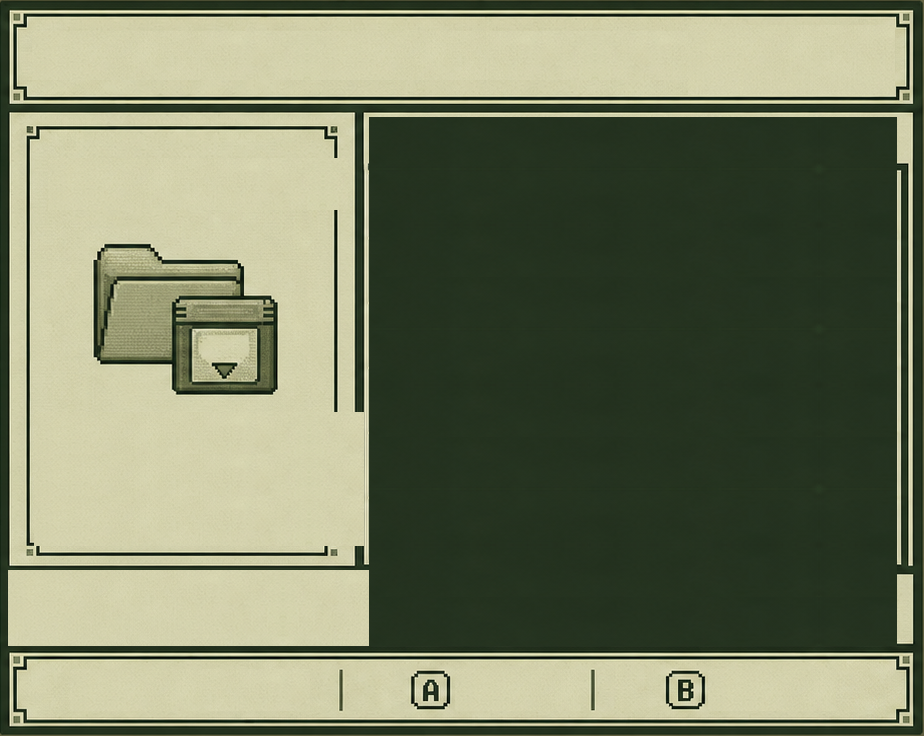
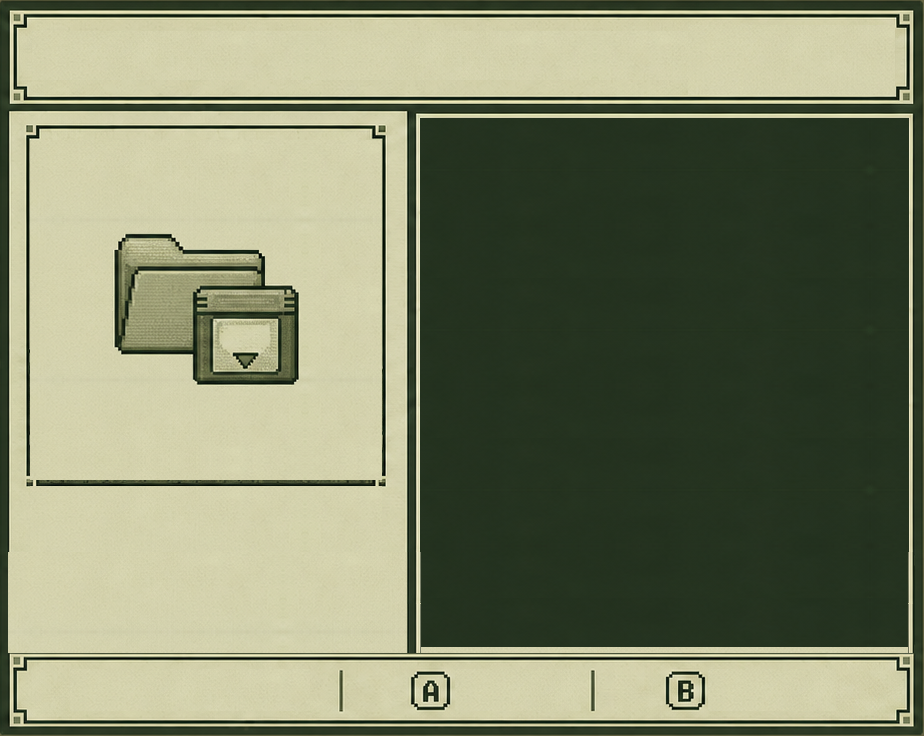
Align Library with Recent Games layout

diff --git a/ui-portable/tools/generate_proposal3_templates.py b/ui-portable/tools/generate_proposal3_templates.py
@@ -32,6 +32,12 @@ def inner(x: int, y: int, width: int, height: int) -> tuple[int, int, int, int]:
     return rect(x + 3, y + 3, width - 6, height - 6)
 
 
+# Library is deliberately based on the Recent Games authority frame. Only this icon is retained
+# from the original, narrower Library mockup.
+LIBRARY_ICON_SOURCE = rect(85, 235, 200, 170)
+LIBRARY_ICON_DESTINATION = (106, 225)
+
+
 # Tight paper-only bands.  Borders, divider rules, icons, and previews sit outside these bounds.
 COMMON_PAPER_TEXT = [
     rect(32, 31, 303, 49),       # COFFEE GB
@@ -95,10 +101,9 @@ ROUTE_PAPER_TEXT = {
         rect(34, 492, 330, 132),
     ],
     "08-library.png": [
-        # Library is icon-only on the left; clear the old opener title and picker copy while
-        # preserving the folder/cartridge illustration between those bands.
-        rect(48, 158, 300, 52), rect(34, 412, 330, 50),
-        rect(34, 454, 330, 50), rect(34, 496, 330, 50),
+        # Library uses the Recent Games authority frame; these are its preview and caption bands.
+        rect(30, 140, 352, 340), rect(30, 486, 352, 66),
+        rect(688, 25, 207, 70),
     ],
     "09-choose-rom.png": [
         rect(45, 114, 330, 56), rect(430, 114, 420, 56), rect(34, 382, 330, 52),
@@ -149,10 +154,6 @@ ROUTE_FLAT_PAPER = {
     "04-touch-controls.png": [rect(744, 25, 151, 61)],
     "05-controller-mapping.png": [rect(744, 25, 151, 61)],
     "10-system.png": [rect(744, 25, 151, 61)],
-    # Library no longer offers duplicate Open ROM buttons in the header or below the rail. The
-    # full header footprint includes its outline; the lower clear stops at the right-side rail so
-    # the folder/cartridge illustration remains untouched above it.
-    "08-library.png": [rect(688, 25, 207, 70), rect(8, 570, 361, 76)],
 }
 
 # Exact half-open inner pause-screen aperture.  It deliberately reaches under the stepped bezel
@@ -189,9 +190,8 @@ ROUTE_WIDGETS = {
     "07-data-media.png": [("dark", inner(*value)) for value in
         [(374, 119, 535, 85), (374, 207, 535, 84), (374, 293, 535, 83),
          (374, 379, 535, 83), (374, 465, 535, 84), (374, 553, 535, 86)]],
-    # The recent-ROM list follows the same seven-item viewport rule as the state and settings
-    # rails. Runtime dividers and chevrons are painted over this clean continuous surface.
-    "08-library.png": [("dark", rect(369, 117, 528, 529))],
+    # Library is the Recent Games viewport with only three populated rows.
+    "08-library.png": [("dark", rect(420, 118, 489, 529))],
     # ZIP candidate selection also scrolls in seven compact rows, while its two actions retain
     # their authored lower-panel footprint.
     "09-choose-rom.png": [("dark", rect(387, 179, 524, 333))] + [("dark", inner(*value)) for
@@ -249,6 +249,79 @@ def paste_surface(image: Image.Image, surface: Image.Image,
             image.paste(surface.crop((0, 0, width, height)), (x, y))
 
 
+def largest_component(mask: np.ndarray) -> np.ndarray:
+    """Keep the connected opener illustration while discarding isolated paper-grain pixels."""
+    height, width = mask.shape
+    visited = np.zeros_like(mask, dtype=bool)
+    largest: list[tuple[int, int]] = []
+    for y in range(height):
+        for x in range(width):
+            if not mask[y, x] or visited[y, x]:
+                continue
+            component: list[tuple[int, int]] = []
+            pending = [(x, y)]
+            visited[y, x] = True
+            while pending:
+                current_x, current_y = pending.pop()
+                component.append((current_x, current_y))
+                for adjacent_y in range(max(0, current_y - 1), min(height, current_y + 2)):
+                    for adjacent_x in range(max(0, current_x - 1),
+                                            min(width, current_x + 2)):
+                        if (mask[adjacent_y, adjacent_x]
+                                and not visited[adjacent_y, adjacent_x]):
+                            visited[adjacent_y, adjacent_x] = True
+                            pending.append((adjacent_x, adjacent_y))
+            if len(component) > len(largest):
+                largest = component
+    result = np.zeros_like(mask, dtype=bool)
+    for x, y in largest:
+        result[y, x] = True
+    return result
+
+
+def fill_mask_holes(mask: np.ndarray) -> np.ndarray:
+    """Fill light paper-colored areas enclosed by the opener's dark pixel-art outline."""
+    height, width = mask.shape
+    outside = np.zeros_like(mask, dtype=bool)
+    pending: list[tuple[int, int]] = []
+    for x in range(width):
+        pending.extend(((x, 0), (x, height - 1)))
+    for y in range(height):
+        pending.extend(((0, y), (width - 1, y)))
+    while pending:
+        x, y = pending.pop()
+        if mask[y, x] or outside[y, x]:
+            continue
+        outside[y, x] = True
+        if x > 0:
+            pending.append((x - 1, y))
+        if x + 1 < width:
+            pending.append((x + 1, y))
+        if y > 0:
+            pending.append((x, y - 1))
+        if y + 1 < height:
+            pending.append((x, y + 1))
+    return mask | ~outside
+
+
+def extract_library_opener(source: Image.Image) -> Image.Image:
+    """Turn the baked Library opener into a transparent sprite without redrawing it."""
+    crop = np.array(source.crop(LIBRARY_ICON_SOURCE).convert("RGB"))
+    border = np.concatenate((crop[:8].reshape(-1, 3), crop[-8:].reshape(-1, 3),
+                             crop[:, :8].reshape(-1, 3), crop[:, -8:].reshape(-1, 3)))
+    paper = np.median(border, axis=0)
+    distance = np.sqrt(np.square(crop.astype(float) - paper).sum(axis=2))
+    mask = fill_mask_holes(largest_component(distance > 35))
+    padded = np.pad(mask, 1)
+    dilated = np.zeros_like(mask, dtype=bool)
+    for offset_y in range(3):
+        for offset_x in range(3):
+            dilated |= padded[offset_y:offset_y + mask.shape[0],
+                              offset_x:offset_x + mask.shape[1]]
+    rgba = np.dstack((crop, np.where(dilated, 255, 0).astype(np.uint8)))
+    return Image.fromarray(rgba, "RGBA")
+
+
 def main() -> None:
     if not RAW.is_dir():
         raise SystemExit(f"Proposal 3 raw reference directory is missing: {RAW}")
@@ -258,16 +331,22 @@ def main() -> None:
         "paper": Image.open(WIDGETS / "paper-widget.png").convert("RGB"),
     }
     paper_pixels = np.array(surfaces["paper"])
+    library_opener = extract_library_opener(
+        Image.open(RAW / "08-library.png").convert("RGB"))
     for source in sorted(RAW.glob("*.png")):
         if source.name not in ROUTE_WIDGETS or source.name not in ROUTE_PAPER_TEXT:
             raise SystemExit(f"No audited template recipe for {source.name}")
-        template = Image.open(source).convert("RGB")
+        # The old Library reference has unique, narrower panel geometry. Start from the Recent
+        # Games reference so every rail, border and footer seam is shared pixel-for-pixel.
+        reference_source = RAW / ("16-recent-games.png"
+                                  if source.name == "08-library.png" else source.name)
+        template = Image.open(reference_source).convert("RGB")
         for surface, bounds in ROUTE_WIDGETS[source.name]:
             paste_surface(template, surfaces[surface], bounds)
         pixels = np.array(template)
         for bounds in COMMON_PAPER_TEXT + ROUTE_PAPER_TEXT[source.name]:
             clear_paper_text(pixels, bounds, paper_pixels)
-        reference = np.array(Image.open(source).convert("RGB"))
+        reference = np.array(Image.open(reference_source).convert("RGB"))
         for left, top, right, bottom in COMMON_PAPER_RESTORE:
             pixels[top:bottom, left:right] = reference[top:bottom, left:right]
         for left, top, right, bottom in ROUTE_PAPER_RESTORE.get(source.name, []):
@@ -277,7 +356,7 @@ def main() -> None:
         if source.name == "00-pause-console.png":
             left, top, right, bottom = PAUSE_PREVIEW_APERTURE
             pixels[top:bottom, left:right] = PAUSE_PREVIEW_MATTE
-        if source.name in ("01-save-states.png", "16-recent-games.png"):
+        if source.name in ("01-save-states.png", "08-library.png", "16-recent-games.png"):
             # Remove all legacy left-side copy while preserving the stepped bezel around the
             # thumbnail aperture.  The runtime fills this aperture with a detached thumbnail.
             clear_paper_text(pixels, rect(30, 140, 352, 340), paper_pixels)
@@ -298,7 +377,10 @@ def main() -> None:
             # Keep the preview well blank until a persisted thumbnail is supplied at runtime.
             left, top, right, bottom = rect(30, 140, 352, 340)
             clear_paper_text(pixels, (left, top, right, bottom), paper_pixels)
-        Image.fromarray(pixels, "RGB").save(OUTPUT / source.name, optimize=True, compress_level=9)
+        rendered = Image.fromarray(pixels, "RGB")
+        if source.name == "08-library.png":
+            rendered.paste(library_opener, LIBRARY_ICON_DESTINATION, library_opener)
+        rendered.save(OUTPUT / source.name, optimize=True, compress_level=9)
     expected = set(ROUTE_WIDGETS)
     actual = {path.name for path in OUTPUT.glob("*.png")}
     if actual != expected:

diff --git a/ui-portable/src/main/java/eu/rekawek/coffeegb/ui/menu/artwork/Proposal3MenuCompositor.java b/ui-portable/src/main/java/eu/rekawek/coffeegb/ui/menu/artwork/Proposal3MenuCompositor.java
@@ -131,7 +131,7 @@ public final class Proposal3MenuCompositor {
             case PAUSE_CONSOLE, SAVE_STATES -> Proposal3GlyphAtlas.Role.SEMIBOLD;
             // Seven archive rows use the compact 36px face so their ink fits the fixed viewport.
             case CHOOSE_ROM -> Proposal3GlyphAtlas.Role.MEDIUM;
-            case CONTROLLER_MAPPING, OPTIONAL_DEVICES, LIBRARY, SYSTEM, DISPLAY, OPTION_PICKER ->
+            case CONTROLLER_MAPPING, OPTIONAL_DEVICES, SYSTEM, DISPLAY, OPTION_PICKER ->
                     Proposal3GlyphAtlas.Role.SMALL;
             case ABOUT -> rowIndex == 0 ? Proposal3GlyphAtlas.Role.SEMIBOLD
                     : Proposal3GlyphAtlas.Role.NOTICE;
@@ -391,10 +391,6 @@ public final class Proposal3MenuCompositor {
             // including the source artwork's button outline.
             paintSurface(raster, Proposal3OverlayCatalog.CONFIRM_HEADER_CLEAR,
                     Proposal3OverlayCatalog.Surface.PAPER, false);
-        } else if (route == MenuRoute.LIBRARY) {
-            // The custom opener illustration remains on the left, while the row below is now
-            // the sole Open ROM affordance. Clear the source artwork's outlined header button.
-            paintPaperAperture(raster, Proposal3OverlayCatalog.OPEN_ROM_HEADER);
         }
         if (route == MenuRoute.SETTINGS || route == MenuRoute.AUDIO
                 || route == MenuRoute.DISPLAY
@@ -1218,7 +1214,6 @@ public final class Proposal3MenuCompositor {
             // normal-width ByteBounce metrics. Their labels have no detail column to reserve.
             case ABOUT -> row.x() + (rowIndex == 0 ? 22 : 98);
             case CONTROLLER_MAPPING -> row.x() + 12;
-            case LIBRARY -> row.x() + 20;
             case SYSTEM, DISPLAY -> row.x() + 16;
             default -> row.x() + 52;
         };

diff --git a/ui-portable/src/main/java/eu/rekawek/coffeegb/ui/menu/artwork/Proposal3OverlayCatalog.java b/ui-portable/src/main/java/eu/rekawek/coffeegb/ui/menu/artwork/Proposal3OverlayCatalog.java
@@ -81,9 +81,9 @@ final class Proposal3OverlayCatalog {
     static final List<MenuRect> SETTINGS_DIVIDERS = dividers(SETTINGS_ROW_BOUNDS);
     private static final List<MenuRect> CONTROLLER_ROW_BOUNDS = equalRows(366, 115, 544, 467, 7, 2);
     static final List<MenuRect> CONTROLLER_DIVIDERS = dividers(CONTROLLER_ROW_BOUNDS);
-    /** Library keeps the same seven-row rail height as the other full-page menus. */
-    private static final List<MenuRect> LIBRARY_ROW_BOUNDS = equalRows(369, 117, 528, 529, 7, 3);
-    static final List<MenuRect> LIBRARY_DIVIDERS = dividers(LIBRARY_ROW_BOUNDS);
+    /** Library is the Recent Games frame with fewer populated rows and a custom left icon. */
+    private static final List<MenuRect> LIBRARY_ROW_BOUNDS = STATE_ROW_BOUNDS;
+    static final List<MenuRect> LIBRARY_DIVIDERS = SAVE_DIVIDERS;
     private static final List<MenuRect> CHOOSE_ROM_ROW_BOUNDS = equalRows(387, 179, 524, 333, 7, 3);
     static final List<MenuRect> CHOOSE_ROM_DIVIDERS = dividers(CHOOSE_ROM_ROW_BOUNDS);
 
@@ -254,9 +254,9 @@ final class Proposal3OverlayCatalog {
         layouts.put(MenuRoute.LIBRARY, layout(MenuRoute.LIBRARY,
                 rows(LIBRARY_ROW_BOUNDS, Surface.DARK),
                 List.of(),
-                masks(OPEN_ROM_HEADER, rowsMasks(LIBRARY_ROW_BOUNDS),
+                masks(rowsMasks(LIBRARY_ROW_BOUNDS),
                         LIBRARY_DIVIDERS.toArray(new MenuRect[0])), true,
-                "recent-0", null, false));
+                "recent-0", new Marker(443), false));
 
         layouts.put(MenuRoute.CHOOSE_ROM, layout(MenuRoute.CHOOSE_ROM,
                 rows(CHOOSE_ROM_ROW_BOUNDS, Surface.DARK),

diff --git a/ui-portable/src/test/java/eu/rekawek/coffeegb/ui/menu/artwork/Proposal3MenuCompositorTest.java b/ui-portable/src/test/java/eu/rekawek/coffeegb/ui/menu/artwork/Proposal3MenuCompositorTest.java
@@ -820,7 +820,24 @@ public class Proposal3MenuCompositorTest {
         assertEquals("", live.sideHeading());
         assertTrue(live.sideLines().isEmpty());
 
+        Proposal3OverlayCatalog.RouteLayout library =
+                Proposal3OverlayCatalog.layout(MenuRoute.LIBRARY);
+        Proposal3OverlayCatalog.RouteLayout recent =
+                Proposal3OverlayCatalog.layout(MenuRoute.RECENT_GAMES);
+        assertEquals(recent.rows().size(), library.rows().size());
+        for (int index = 0; index < recent.rows().size(); index++) {
+            assertEquals("Library row geometry diverged at " + index,
+                    recent.rows().get(index).bounds(), library.rows().get(index).bounds());
+        }
+        assertEquals(recent.marker().sourceX(), library.marker().sourceX());
+        assertEquals(Proposal3MenuCompositor.rowTextRole(MenuRoute.RECENT_GAMES, 0),
+                Proposal3MenuCompositor.rowTextRole(MenuRoute.LIBRARY, 0));
+
         int[] template = Proposal3TemplateFrameCatalog.decode(MenuRoute.LIBRARY).copyPixels();
+        int[] recentTemplate = Proposal3TemplateFrameCatalog.decode(MenuRoute.RECENT_GAMES)
+                .copyPixels();
+        assertNoDifferenceOutside(recentTemplate, template,
+                List.of(new MenuRect(106, 225, 200, 170)));
         int[] pixels = new Proposal3MenuCompositor().compose(live).orElseThrow().copyPixels();
         assertFalse("Library rows were not rendered", Arrays.equals(template, pixels));
         // The icon-only left panel lies outside every dynamic mask and must remain byte-identical.

diff --git a/ui-portable/src/test/java/eu/rekawek/coffeegb/ui/menu/artwork/Proposal3TemplateFrameCatalogTest.java b/ui-portable/src/test/java/eu/rekawek/coffeegb/ui/menu/artwork/Proposal3TemplateFrameCatalogTest.java
@@ -41,7 +41,7 @@ public class Proposal3TemplateFrameCatalogTest {
             Map.entry(MenuRoute.DATA_MEDIA,
[1 lines of base64/hex data omitted]
             Map.entry(MenuRoute.LIBRARY,
[2 lines of base64/hex data omitted]
             Map.entry(MenuRoute.CHOOSE_ROM,
[1 lines of base64/hex data omitted]
             Map.entry(MenuRoute.SYSTEM,
